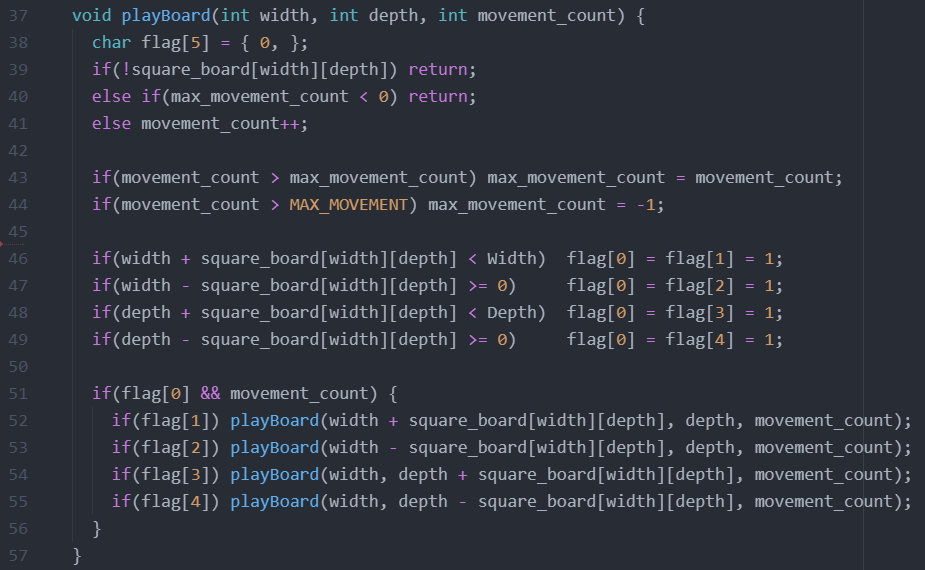
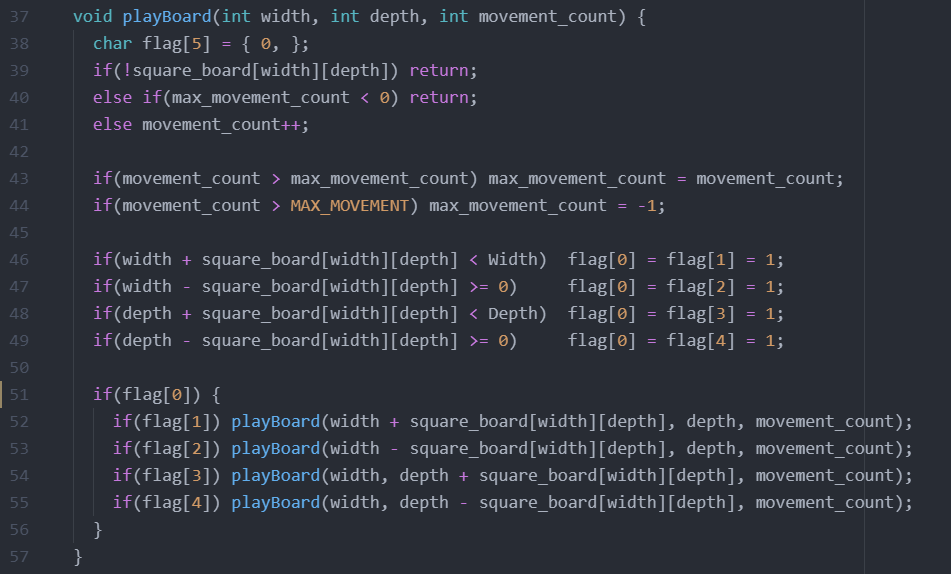
전자공학프로그래밍 과제1 Update 19/04/14

diff --git a/Electronics_Pragramming/과제1/HW1_prob.c b/Electronics_Pragramming/과제1/HW1_prob.c
@@ -48,7 +48,7 @@ void playBoard(int width, int depth, int movement_count) {
 	if(depth + square_board[width][depth] < Depth)	flag[0] = flag[3] = 1;
 	if(depth - square_board[width][depth] >= 0)			flag[0] = flag[4] = 1;
 
-	if(flag[0] && movement_count) {
+	if(flag[0]) {
 		if(flag[1]) playBoard(width + square_board[width][depth], depth, movement_count);
 		if(flag[2]) playBoard(width - square_board[width][depth], depth, movement_count);
 		if(flag[3]) playBoard(width, depth + square_board[width][depth], movement_count);

diff --git a/Electronics_Pragramming/과제1/README.md b/Electronics_Pragramming/과제1/README.md
@@ -13,7 +13,7 @@
 * 동전이 보드 바깥으로 나가거나, 동전이 있는 칸의 숫자가 0일 경우 게임 종료.
 * 동전의 최대 이동 가능 횟수 출력
   * 동전이 무한 번 움직일 수 있다면 -1 출력
-        
+
 ### 2. 프로그램 구조
 #### 1. 매크로 변수  
 1. `Width` : 보드의 행 길이 지정  
@@ -31,20 +31,20 @@
      * `max_width` : 생성할 보드의 행 길이  
      * `max_depth` : 생성할 보드의 열 길이
      <br>
-     
+
 2. `printBoard(int max_width, int max_depth)`  
    생성한 보드를 화면에 출력한다.  
      * 반환형 : **void**
      * `max_width` : 생성할 보드의 행 길이  
      * `max_depth` : 생성할 보드의 열 길이
      <br>
-     
+
 3. `playBoard(int width, int depth, int movement_count)`  
    규칙에 따라 동전을 움직여 게임을 실행한다.  
      * 반환형 : **void**
      * `width`, `depth` : 동전의 현재 좌표  
      * `movement_count` : 동전이 현재까지 움직인 횟수  
-           
+
 ## 2. 코드 분석
 ### 1. `main()`
 ![main](/Electronics_Pragramming/과제1/images/main.png)  <br>
@@ -132,8 +132,8 @@ else movement_count++;
 if(movement_count > max_movement_count) max_movement_count = movement_count;
 if(movement_count > MAX_MOVEMENT) max_movement_count = -1;
 ```
-현재 이동 횟수가 저장된 최대 이동 횟수보다 크다면, 최대 이동 횟수를 갱신한다.
-만약 현재 이동 횟수가 최대 이동 가능 횟수를 초과했다면, 최대 이동 횟수에 `-1` 을 저장한다.
+현재 이동 횟수가 저장된 최대 이동 횟수보다 크다면, 최대 이동 횟수를 갱신한다.  
+만약 현재 이동 횟수가 최대 이동 가능 횟수를 초과했다면, 최대 이동 횟수에 `-1` 을 저장한다.  
 
 * * * * *
 
@@ -179,3 +179,52 @@ printf("\n");
 ```
 `square_board` 2차원 배열의 구조를 그대로 화면에 출력한다.  
 한 행의 출력이 끝나면 한 줄을 개행한다.
+
+* * * * *
+
+## 3. 실행 결과 분석
+### I. 0회 이동
+![0 move](/Electronics_Pragramming/과제1/images/0 move.png)  <br>
+첫 시작 칸인 `square_board[0][0]`의 값이 0이므로, 단 1회도 이동할 수 없다.  
+`playBoard()`의 첫 번째 호출에서  
+```C
+if(!square_board[width][depth]) return;
+```
+에 걸려 바로 함수가 종료되므로 `max_movement_count`는 선언 후 초기화된 값인 0이다.  
+따라서, 최대 이동 횟수는 0회가 된다.
+
+### II. 1회 이동
+![1 move](/Electronics_Pragramming/과제1/images/1 move.png)  <br>
+첫 시작 칸인 `square_board[0][0]`의 값이 6으로, 보드의 폭과 길이를 초과한다.  
+따라서 동전은 우측 또는 아래쪽으로 단 1회 이동할 수 있으며, 이동한 후 보드를 이탈해 게임이 종료된다.  
+<br>
+코드상에서는  
+```C
+if(!square_board[width][depth]) return;
+else if(max_movement_count < 0) return;
+else movement_count++;
+```
+에 따라 해당되는 조건이 없으므로 이동 횟수가 1회 증가한다.  
+이후, 이동 가능한 방향 조사를 통과하지 못하므로 함수가 종료된다.
+
+### III. 3회 이동
+![3 move](/Electronics_Pragramming/과제1/images/3 move.png)  <br>
+1. 처음 시작 칸인 `square_board[0][0]`의 값이 1로, 우측 및 아래로 이동 가능하다.
+2. `max_movement_count`가 `1`이 된다.
+3. 따라서 이동 가능 방향 조사를 거친 `flag` 배열은 `[1, 1, 0, 1, 0]`이 된다.
+4. `flag[1]`과 `flag[3]`이 참이므로, `playBoard(1, 0, 1)`과 `playBoard(0, 1, 1)`이 재귀 호출된다.
+  1. `playBoard(1, 0, 1)`  
+  `max_movement_count`가 `2`가 된다.  
+  `square_board[1][0]`이 `3`이므로, 우측 및 아래쪽으로 이동 가능하다.  
+  앞선 과정을 거쳐 `playBoard(4, 0, 2)`와 `playBoard(1, 3, 2)`가 재귀 호출된다.  
+    1. `playBoard(4, 0, 2)`  
+    `max_movement_count`가 `3`이 된다.  
+    `square_board[4][0]`이 `6`이므로, 모든 방향에서 보드를 초과하여 게임이 종료된다.
+    2. `playBoard(1, 3, 2)`  
+    `square_board[4][0]`이 `0`이므로, 게임이 종료된다.
+  2. `playBoard(0, 1, 1)`  
+  `square_board[0][1]`이 `0`이므로, 게임이 종료된다.
+5. 따라서, 최대 이동 횟수는 `3`이 된다.  
+
+### IV. 5회 이동
+![5 move](/Electronics_Pragramming/과제1/images/5 move.png)  <br>
